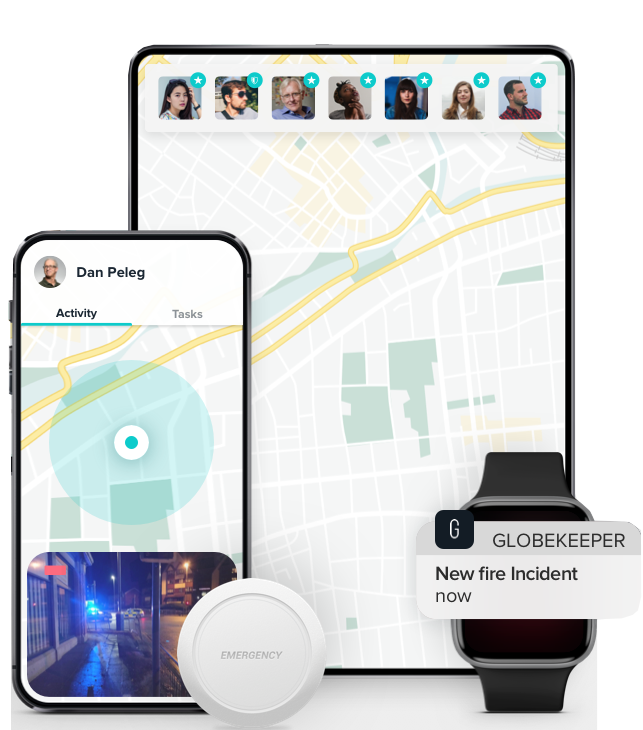
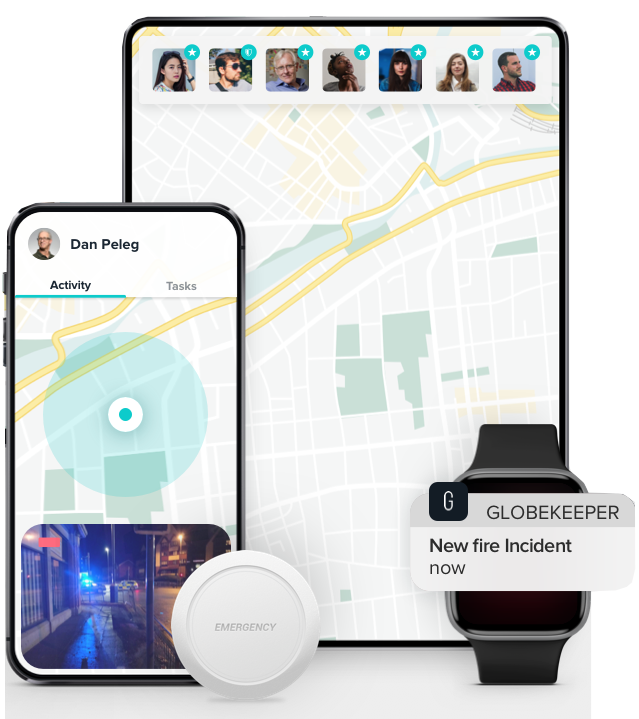
fff

diff --git a/index.html b/index.html
@@ -13,7 +13,6 @@
         <h2 class="h2">connect to everything</h2>
         <h1 class="h1">connect to everything</h1>
         <p class="p">Download GlobeKeeper onto the devices you already have. Connect to smart equipment for a hands-free experience.</p>
-
         <div class="img_box">
             <div class="desctop" data-aos="zoom-out-up" data-aos-duration="1300"></div>
             <div class="other" data-aos="zoom-out" data-aos-delay="500" data-aos-duration="1100">
@@ -23,7 +22,7 @@
 
         </div>
 
-        <footer>
+        <footer data-aos="fade-up" data-aos-delay="1000" data-aos-duration="1500">
             <div class="icon">
                 <img src="03.jpg" alt="">
                 <img src="04.jpg" alt="">

diff --git a/style.css b/style.css
@@ -17,6 +17,9 @@ body {
 [data-aos=zoom-out-up] {
     transform: translate3d(0, 75%, 0) scale(2.6);
 }
+[data-aos=fade-up] {
+    transform: translate3d(0,0,0);
+}
 
 .container {
     width: 100vw;
@@ -106,11 +109,13 @@ footer {
     justify-content: center;
     align-items: center;
     margin: 2% 0 0;
+/*
     -webkit-animation-name: fadeIn 1.5s ease-in-out 1s;
     animation: fadeIn 1.5s ease-in-out 1s;
     animation-iteration-count: 1;
     animation-direction: alternate;
     animation-fill-mode: both;
+*/
 
 }
 
